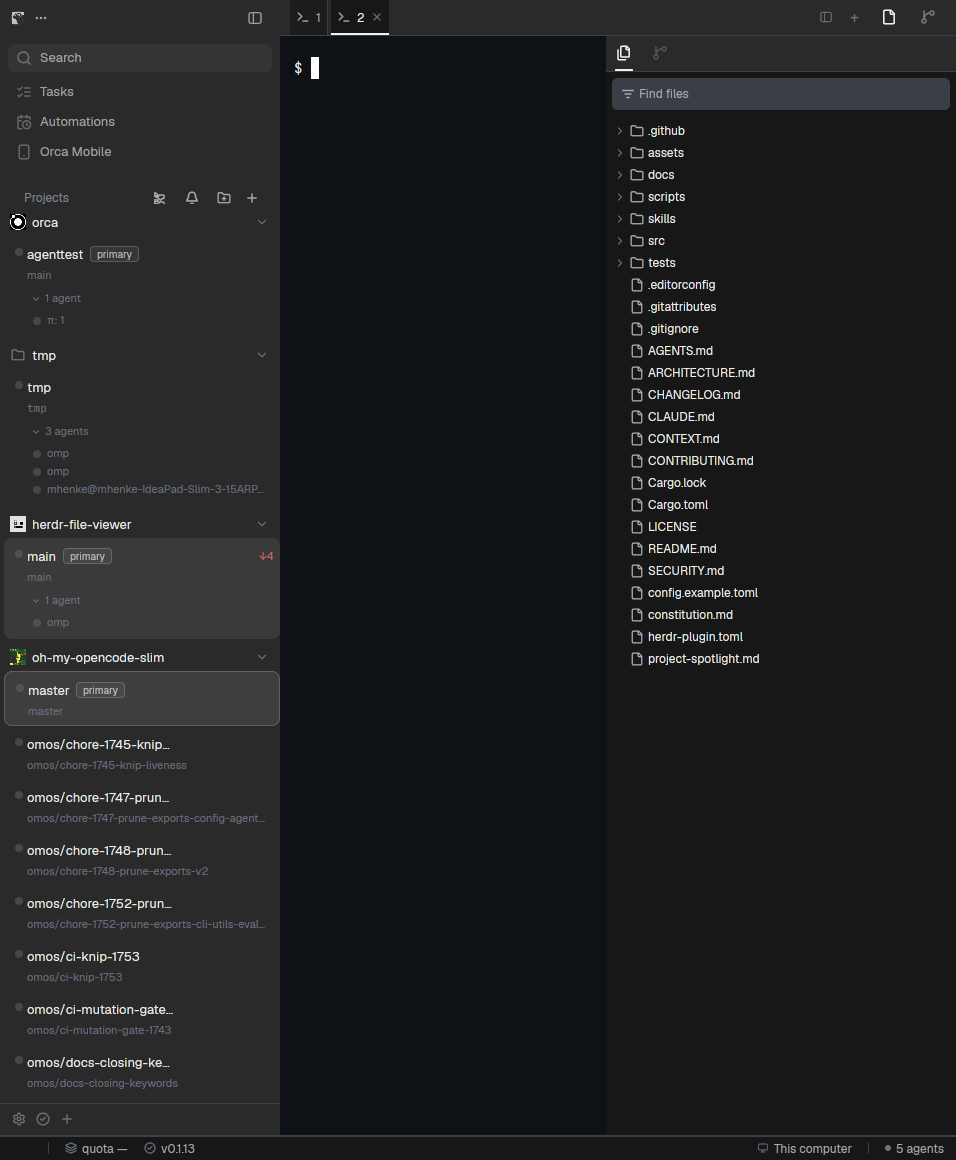
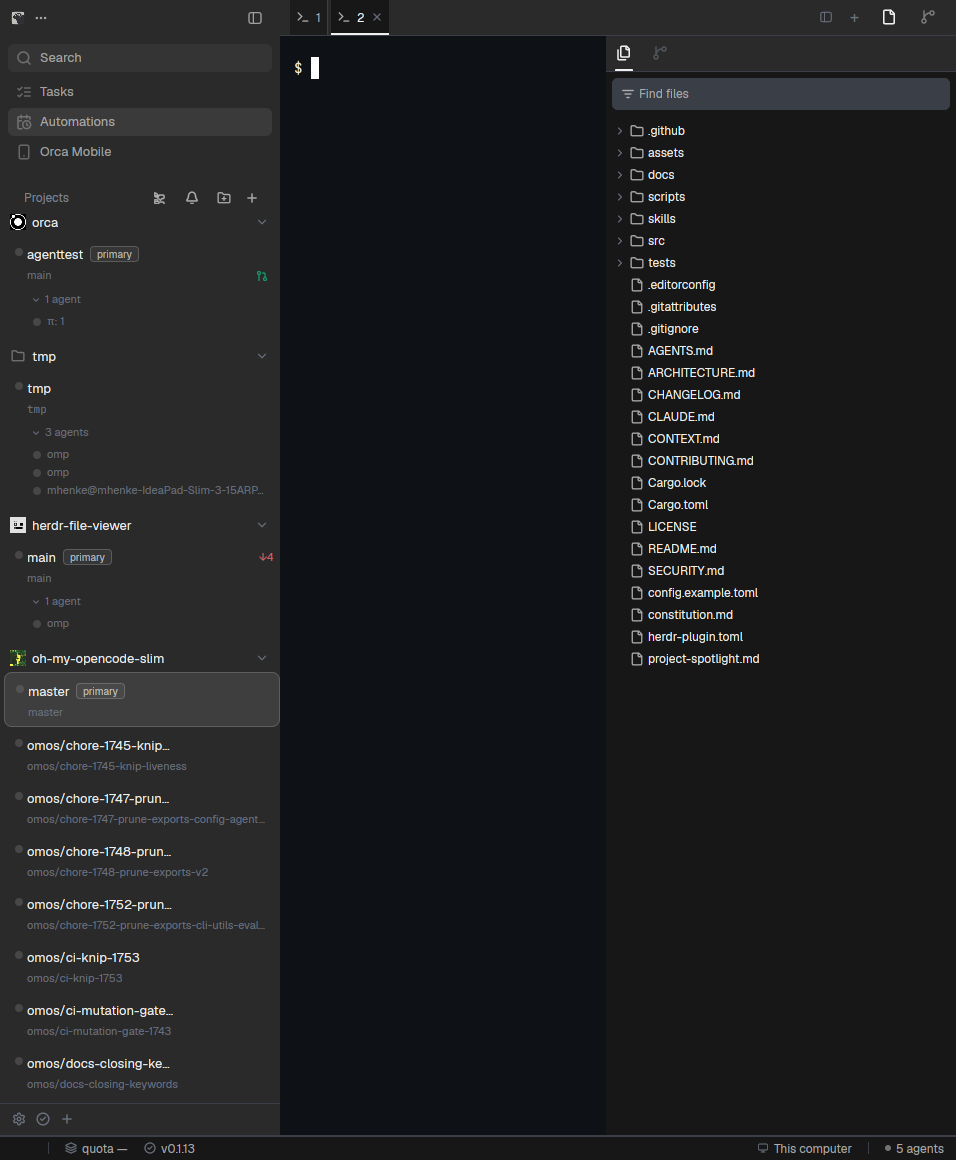
orca-spaces: draw the review badge at the end of the branch row
WorktreeCardMetaBadges.tsx:86 is a right-aligned cluster (ml-auto ... pr-1.5)
holding the linked review for a classic card. ReviewIcon
(worktree-review-presentation.tsx:105) picks the glyph by state — GitMerge for
merged, GitPullRequestClosed, GitPullRequestDraft, else the plain PR icon — and
getStateTone (:54-70) sets the colour: merged purple, open emerald, closed and
draft muted.

Herdr carries no PR, so it comes from 'gh pr list --head <branch>' (the same
identity Orca's review link resolves through), asked once per git probe on local
machines only. No gh, no auth or no PR leaves the slot empty, matching Orca's
review == null.

Also adds Orca's EmptyState 'No workspaces found' (EmptyState.tsx:23-27) when
the space list is empty — the only branch that applies, since Herdr has no
filter model.

diff --git a/mods/orca-spaces/main.js b/mods/orca-spaces/main.js
@@ -256,6 +256,22 @@ export default class Spaces extends View {
         }
       }
       this.git[key] = info;
+      // Orca's right-aligned meta badge cluster (`WorktreeCardMetaBadges.tsx:86` `ml-auto ...
+      // pr-1.5`) draws the linked review: `ReviewIcon` (worktree-review-presentation.tsx:105)
+      // picks GitPullRequestClosed / GitPullRequestDraft / GitMerge or the plain PR glyph by
+      // state, toned by `getStateTone` (merged purple, open emerald, closed/neutral muted).
+      // Herdr carries no PR, so it comes from `gh pr list --head <branch>`, which is also what
+      // Orca's review link resolves through. Only the current branch is asked, once per probe;
+      // no gh, no auth or no PR simply leaves the slot empty, as Orca's `review == null` does.
+      if (info.branch && !on) {
+        try {
+          const pr = await exec("gh", ["pr", "list", "--head", info.branch, "--json", "number,state,isDraft", "--limit", "1"], { cwd });
+          if (pr.code === 0) {
+            const [first] = JSON.parse(pr.stdout || "[]");
+            if (first?.number) info.pr = { number: first.number, state: first.isDraft ? "draft" : String(first.state ?? "").toLowerCase() };
+          }
+        } catch {}
+      }
       // Orca's rows are the repo's worktrees (`listRepoWorktrees`), not its open sessions, so an
       // unopened worktree still draws a card. Record each one; rows without a space open in it on click.
       if (!info.linked) {
@@ -468,6 +484,19 @@ export default class Spaces extends View {
     });
   }
 
+  // `ReviewIcon` (worktree-review-presentation.tsx:105-120): the glyph is state-specific —
+  // merged GitMerge, closed GitPullRequestClosed, draft GitPullRequestDraft, else the plain
+  // PullRequestIcon — and the tone is `getStateTone` (:54-70): merged purple-400/70, open
+  // emerald-500/80, closed muted-foreground/60, draft muted-foreground/50. `size-3` is the
+  // MetaIconBadge glyph size.
+  prBadge(pr, t, id) {
+    const icon = pr.state === "merged" ? "git-merge" : pr.state === "closed" ? "git-pull-request-closed" : pr.state === "draft" ? "git-pull-request-draft" : "git-pull-request";
+    const tone = pr.state === "merged" ? "#c084fcb3" : pr.state === "open" ? "#10b981cc" : pr.state === "draft" ? "#acacac80" : pr.state === "closed" ? "#acacac99" : "#acacacb3";
+    return div().flex_none().flex().items_center().justify_center().pr(6)
+      .child(tip(this.hot, t, `pr-${id}`, `PR #${pr.number}`, stop(this, t, `pr-${id}`, div().id(`pr-${id}`)
+        .child(svg(`mods/orca-spaces/${icon}.svg`).size(12).flex_none().text_color(tone)))));
+  }
+
   // Only what's unusual, after the name: "herdr \u00b7 spike \u21912 \u21931". The repo or
   // branch goes when the name already says it (a worktree is named after its branch),
   // and master/main go: nearly every space is on one.
@@ -659,8 +688,13 @@ export default class Spaces extends View {
               .text_size(10).font_medium().line_height("14px").text_color("#f0f0f0b3").child("primary")))
             .child(g ? this.gitTail(g, t, w.id) : div().flex_1()))
           // Meta row: the branch, or the folder's own last segment — 11px muted, mono for paths
-          // (`WorktreeCardFolderPath`: `font-mono text-[11px] leading-none`).
-          .when(Boolean(meta), el => el.child(div().min_w(0).truncate().text_size(11).line_height("11px").text_color(t.dim).when(metaMono, m => m.font_family("JetBrains Mono")).child(meta)))
+          // (`WorktreeCardFolderPath`: `font-mono text-[11px] leading-none`). The review badge
+          // sits at the row's end, which is Orca's `ml-auto ... pr-1.5` cluster
+          // (WorktreeCardMetaBadges.tsx:86) and the only thing it holds for a classic card.
+          .when(Boolean(meta), el => el.child(h_flex().w_full().min_w(0).items_center()
+            .child(div().min_w(0).truncate().text_size(11).line_height("11px").text_color(t.dim).when(metaMono, m => m.font_family("JetBrains Mono")).child(meta))
+            .child(div().flex_1())
+            .when(Boolean(g?.pr), row => row.child(this.prBadge(g.pr, t, w.id)))))
           // Orca's compact agent summary (worktree-card-compact-agents.tsx): h-6, px-1,
           // 11px muted, a chevron that folds the rows, which carry a 6px status dot each.
           .when(mine.length > 0, el => el.child(agentBlock))),
@@ -708,6 +742,13 @@ export default class Spaces extends View {
           cx.notify();
         })
         .child(v_flex().id("space-content").w_full().flex_none().px(0).pb(8)
-          .children(this.grouped(t)))));
+          // EmptyState.tsx:23-27 — with no filters in Herdr only the first branch applies:
+          // `flex flex-col items-center gap-2 px-4 py-6 text-center text-[11px] text-muted-foreground`
+          // holding "No workspaces found". Orca gates it on `startupWorktreeRefreshCompleted`;
+          // Herdr reports no equivalent, and a zero-space list is already settled.
+          .when(sp.length === 0, el => el.child(div().flex().flex_col().items_center().gap(2).px(16).py(24).w_full()
+            .text_size(11).text_center().text_color(t.muted)
+            .child(div().child("No workspaces found"))))
+          .children(sp.length ? this.grouped(t) : []))));
   }
 }
